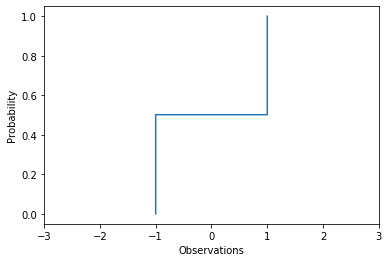
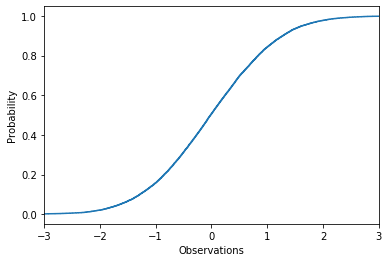
Fixed A12

diff --git a/main.tex b/main.tex
@@ -7,6 +7,7 @@
 \usepackage{fancyhdr}
 \usepackage{multirow}
 \usepackage{listings}
+\usepackage{hyperref}
 
 \definecolor{keywords}{RGB}{255,0,90}
 \definecolor{comments}{RGB}{0,0,113}
@@ -57,6 +58,7 @@
 \normalsize{Dino Bektesevic}}
 \maketitle
 
+Collaborated: Conor Sayers, Joachim Moeyenes, Jessica Birky, Leah Fulmer
 
 \section*{Probability and Statistics}
 A.1 \points{2} (Bayes Rule, from Murphy exercise 2.4.) After your yearly checkup, the doctor has bad news and good news. The bad news is that you tested positive for a serious disease, and that the test is 99\% accurate (i.e., the probability of testing positive given that you have the disease is 0.99, as is the probability of testing negative given that you don't have the disease). The good news is that this is a rare disease, striking only one in 10,000 people. What are the chances that you actually have the disease? (Show your calculations as well as giving the final result.)\\
@@ -98,13 +100,20 @@ A.2 For any two random variables $X,Y$ the \emph{covariance} is defined as $\tex
 A.3 Let $X$ and $Y$ be independent random variables with PDFs given by $f$ and $g$, respectively. Let $h$ be the PDF of the random variable $Z = X+Y$.
 \begin{enumerate}
 	\item \points{2} Show that $h(z) = \int_{-\infty}^\infty f(x) g( z - x ) d x $.  (If you are more comfortable with discrete probabilities, you can instead derive an analogous expression for the discrete case,  and then you should give a one sentence explanation as to why your expression is analogous to the continuous case.). \\
-	Random variables are independent when $p(x,y) = f(x)g(y)$. Since $X$ and $Y$ are independent and $Z=X+Y$ the domain of Z is given as a union of the domains of $X$ and $Y$, i.e. in terms of values of rvs $z=x+y$. Picking a particular $z$ and $x$ limits, by the law of total probability, the allowable values event $y$ can take. This can be expressed as the constraint $z=x+y \rightarrow y=z-x \rightarrow x=z-y$. So given a joint probability: 
-	$$p(Z=z) = \int_{-\infty}^\infty\int_{-\infty}^{z-x} p(x,y)dxdy$$
-	and given that $X$ and $Y$ are independent: 
-	$$p(Z=z) = \int_{x\in X} f(x)g(z-x)dx = \int_{y\in Y} f(z-y)g(y)dy$$
-	If we then further define $f(x)=0; x\not\in X$:
-	$$p(Z=z) =  \int_{-\infty}^\infty f(x)g(z-x)dx $$
-	This is exactly the definition of convolution $(f * g)(t) \triangleq\ \int_{-\infty}^\infty f(\tau) g(t - \tau) \, d\tau$
+	Random variables are independent when $p(x,y) = f(x)g(y)$. Since $X$ and $Y$ are independent and $Z=X+Y$ the domain of Z is given as a union of the domains of $X$ and $Y$, i.e. in terms of values of rvs $z=x+y$. Picking a particular $z$ and $x$ limits, by the law of total probability, the allowable values event $y$ can take. This can be expressed as the constraint $z=x+y \rightarrow y=z-x \rightarrow x=z-y$.Starting from the definition of cumulative distribution function: 
+	$$C_H(z) = p(X+Y\leq z) = \int p(z')dz'$$
+	writing the $p(z')$ in terms of above stated conditions we can write:
+	\begin{align*}
+	    C_H(z) &= \int p(X+Y\leq z)|Y=y)g(y)dy = \int p(X+Y\leq z)|X=x)f(x)dx \\
+	    C_H(z) &= \int p(X\leq z-y)|Y=y)g(y)dy 
+	\end{align*}
+	where both expressions are equivalent but we focus on just one for brevity. We recognize the expression inside the integral as another CDF. We also know that the PDF can be retrieved from a CDF via derivation:
+	\begin{align*}
+	    h(z) = \frac{d}{dz}\int C_X(z-y)g(y)dy \\
+	    h(z) = \int \frac{dC_X(z-y)}{dz}g(y)dy \\
+	    h(z) = \int f(z-y)g(y)dy = \int f(z-x)g(x)dx
+	\end{align*}
+    The integral bounds are over the domain of $X$ or $Y$ (depending over which variable did the marginalization happen) but can be written in terms of infinity if we further define $f(y)=0; x\not\in Y$ and vice-versa for $X$. With that change we see that this is exactly the definition of convolution $(f*g)(t) \triangleq \int_{-\infty}^\infty f(\tau)g(t-\tau)d\tau$ as per Wikipedia. 
 
 	\item \points{1} If $X$ and $Y$ are both independent and uniformly distributed on $[0,1]$ (i.e. $f(x)=g(x)=1$ for $x \in [0,1]$ and $0$ otherwise) what is $h$, the PDF of $Z=X+Y$? \\
     $$h(z) = \int_{-\infty}^\infty f(x)g(z-x)dx = \int_0^1g(z-x)dx$$
@@ -400,9 +409,9 @@ as per Wikipedia.\\
 B.3 \points{1} Let $v_1,\dots,v_n$ be a set of non-zero vectors in $\mathbb{R}^d$. Let $V = [v_1,\dots,v_n]$ be the vectors concatenated. 
     \begin{enumerate}
         \item What is the minimum and maximum rank of $\sum_{i=1}^n v_i v_i^T$? \\
-        Basis of an $\mathbb{R}^d$ is spanned by $d$ linearly independent vectors. So the maximum rank of a matrix will be d. Minimal rank of a matrix would always be 0 in case of a zero matrix, but since the vectors $v$ must be non-zero the minimal rank of V would be 1 in the case all $v$ are the same unit vectors. 
+        Vector $v$ is a column vector with n rows. Transpose of vector $v$ will have n columns and 1 row. The matrix resulting from matrix multiplication has the number of rows of the first and the number of columns of the second matrix, i.e. it will be an $(n, n)$ square matrix. Basis of an $\mathbb{R}^d$ is spanned by $d$ linearly independent vectors. So the maximum rank of a matrix will be d when $n\geq d$. Otherwise the maximal rank of the sum is $n$ when $0<n<d$. If all vectors are the same unit vectors then the minimum rank could be 1. 
         \item What is the minimum and maximum rank of $V$? \\
-        Same as a) (are these supposed to be like trick questions?)
+        Same as above with the additional comment that minimal rank of a matrix would be 0 in case of a zero matrix, but since the vectors $v$ must be non-zero the minimal rank of V would again be 1 in the case all $v$ are unit vectors, or if all given vectors are linearly dependent.
         \item Let $A \in \mathbb{R}^{D \times d}$ for $D > d$. What is the minimum and maximum rank of $\sum_{i=1}^n (A v_i) (A v_i)^T$?
         \item What is the minimum and maximum rank of $AV$? What if $V$ is rank $d$?
     \end{enumerate}
@@ -424,18 +433,35 @@ A.11 For the $A, b, c$ as defined in Problem 8, use
 A.12 \points{4} Two random variables $X$ and $Y$ have equal distributions if their CDFs, $F_X$ and $F_Y$, respectively, are equal, i.e. for all $x$, $ |F_X(x) - F_Y(x)| = 0$. The central limit theorem says that the sum of $k$ independent, zero-mean, variance-$1/k$ random variables converges to a (standard) Normal distribution as $k$ goes off to infinity. We will study this phenomenon empirically (you will use the Python packages Numpy and Matplotlib). Define $Y^{(k)} = \frac{1}{\sqrt{k}} \sum_{i=1}^k B_i$ where each $B_i$ is equal to $-1$ and $1$ with equal probability. From your solution to problem 5, we know that $\frac{1}{\sqrt{k}} B_i$ is zero-mean and has variance $1/k$.
 
 \begin{enumerate}
-\item For $i=1,\dots,n$ let $Z_i \sim \mathcal{N}(0,1)$. If $F(x)$ is the true CDF from which each $Z_i$ is drawn (i.e., Gaussian) and $\widehat{F}_n(x) = \frac{1}{n} \sum_{i=1}^n \1\{ Z_i \leq x)$, use the answer to problem 1.5 above to choose$n$ large enough such that, for all $x \in \R$, $ \sqrt{\E[(\widehat{F}_n(x)-F(x))^2 ]} \leq 0.0025$, and plot $\widehat{F}_n(x)$ from $-3$ to $3$. \\(Hint: use \texttt{Z=numpy.random.randn(n)} to generate the random variables, and \texttt{import matplotlib.pyplot as plt}; \texttt{plt.step(sorted(Z), np.arange(1,n+1)/float(n))} to plot). 
+\item For $i=1,\dots,n$ let $Z_i \sim \mathcal{N}(0,1)$. If $F(x)$ is the true CDF from which each $Z_i$ is drawn (i.e., Gaussian) and $\widehat{F}_n(x) = \frac{1}{n} \sum_{i=1}^n \1\{ Z_i \leq x)$, use the answer to problem 1.5 above to choose$n$ large enough such that, for all $x \in \R$, $ \sqrt{\E[(\widehat{F}_n(x)-F(x))^2 ]} \leq 0.0025$, and plot $\widehat{F}_n(x)$ from $-3$ to $3$. \\(Hint: use \texttt{Z=numpy.random.randn(n)} to generate the random variables, and \texttt{import matplotlib.pyplot as plt}; \texttt{plt.step(sorted(Z), np.arange(1,n+1)/float(n))} to plot). \\
+From problem A6 we have $\text{Var}\widehat F_n(x) = (4n)^{-1}$ so plugging in the value $0.0025$ given in the problem we have $n=(0.0025*4)^{-1}=100$ so just to be on the very safe side lets sample several tens of thousand times. 
     \begin{center}
     \includegraphics[width=4in]{HW0_plots/cumdist1.png}
     \end{center} 
-    	\begin{lstlisting}[language=Python]
+    \begin{lstlisting}[language=Python]
 import matplotlib.pyplot as plt
 import numpy as np
 
-n = 20000
-Z = np.sign(np.random.randn(n))
-plt.step(sorted(Z), np.arange(1, n + 1) / float(n))
+def Fn(Z, x=1.0):
+    """Calculates the empirical estimate of the
+    CDF F(x) by counting the number of occurences
+    of random variable Z up to the limit x. 
+    
+    Parameters
+    ----------
+    Z : `array`
+        An array of samples of random variable Z
+    x : `float`
+        Limit to which the empirical estimate is calculated.
+    """
+    return np.sum(Z<=x)/len(Z)
 
+n = 20000
+Z = np.random.randn(n)
+x = np.arange(-3, 3, 0.01)
+fn = [Fn(Z, _x) for _x in x]
+
+plt.step(x, fn)
 plt.xlim(-3, 3)
 plt.xlabel("Observations")
 plt.ylabel("Probability")
